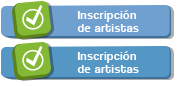
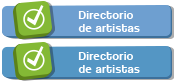
Traducción Sidebar, botones Read more y botones inferiores

diff --git a/wp-content/themes/feria/style.css b/wp-content/themes/feria/style.css
@@ -590,7 +590,7 @@ span.hoy {
 	display:inline-block; 
 	}
 	
-.vermas {
+.vermas, .readmore {
 	float:right;
 	width:72px;}
 
@@ -605,7 +605,17 @@ span.hoy {
 
 	}
 
-.vermas a:hover {
+	
+.readmore a {
+	background-image:url(images/readmore.png);
+	width:71px;
+	height:40px;
+	display:block; 
+	text-indent:-9000%;
+
+	}
+
+.vermas a:hover, .readmore a:hover {
 	background-position:0 -39px;
 	}
 
@@ -1260,13 +1270,19 @@ footer{
 
 /*ESTADO NORMAL*/
 .preguntasFrecuentes a {background-image:url(images/preguntasFrecuentes.png); width:178px; height:40px; }
-.directorioArtistas a {background-image:url(images/InscripcionDeArtistas.png); width:177px; height:40px;}
+.directorioArtistas a {background-image:url(images/InscripcionDeArtistas.png); width:176px; height:40px; }
+
+.preguntasFrecuentesEn a {background-image:url(images/faqs.png); width:178px; height:40px;}
+.directorioArtistasEn a {background-image:url(images/artisticdirectory.png); width:176px; height:40px;}
 
 
 /*ESTADO ROLLOVER*/
 
-.preguntasFrecuentes a:hover {background-position:0px -40px;}
-.directorioArtistas a:hover { background-position:0px -41px;}
+.preguntasFrecuentes a:hover, .preguntasFrecuentesEn a:hover{background-position:0px -40px;}
+.directorioArtistas a:hover {background-position:0px -41px;}
+.directorioArtistasEn a:hover {background-position:0px -41.5px;}
+
+
 
 footer li {
 	float:left;

diff --git a/wp-content/themes/feria/sidebar.php b/wp-content/themes/feria/sidebar.php
@@ -7,7 +7,11 @@
 							<div class="videoFeria">
                             <div class="tit">
                                  <span class="icono"></span>
-                                   <span>Video de la feria</span>         
+                                 <?php if(qtrans_getLanguage() == 'es'): ?>
+                                 <span>Video de la feria</span>         
+                                 <?php else: ?>
+                                 <span>Festival's video</span>  
+                                  <?php endif; ?>      
                             </div><!-- cierra .tit -->  
                             
                             <iframe width="300" height="169" src="//www.youtube.com/embed/bQ2KKHzR2DA" frameborder="0" allowfullscreen></iframe>
@@ -31,13 +35,27 @@
                          </div><!-- cierra .hoyFeria -->
                          
                          <div class="infoTurismo">
+                          <?php if(qtrans_getLanguage() == 'es'): ?>
                          <h3>Info turística</h3>
+                          <?php else: ?>
+                          <h3>For tourists</h3>
+                          <?php endif; ?>
+                          
+<?php if(qtrans_getLanguage() == 'es'): ?>   
                          <ul>
-                           <li><span class="icono1"></span><a href="<?php echo home_url(); ?>/category/infoturistica/">¿Cómo llegar a Medellín?</a></li>
-                       	   <li><span class="icono2"></span><a href="http://medellin.travel/que-hacer-en-medellin/reuniones/directorio-turistico/hospedaje" target="_blank">¿Dónde quedarme en Medellín?</a></li>
-                       	   <li><span class="icono3"></span><a href="http://medellin.travel/que-hacer-en-medellin/reuniones/directorio-turistico/restaurantes" target="_blank">¿Dónde comer en Medellín?</a></li>
-                         </ul>
-                         </div>
+<li><span class="icono1"></span><a href="<?php echo home_url(); ?>/category/infoturistica/">¿Cómo llegar a Medellín?</a></li>
+<li><span class="icono2"></span><a href="http://medellin.travel/que-hacer-en-medellin/reuniones/directorio-turistico/hospedaje" target="_blank">¿Dónde quedarme en Medellín?</a></li>
+<li><span class="icono3"></span><a href="http://medellin.travel/que-hacer-en-medellin/reuniones/directorio-turistico/restaurantes" target="_blank">¿Dónde comer en Medellín?</a></li>
+</ul>
+
+<?php else: ?>
+<ul>
+<li><span class="icono2"></span><a href="http://medellin.travel/que-hacer-en-medellin/reuniones/directorio-turistico/hospedaje" target="_blank">Where to stay in Medellín?</a></li>
+<li><span class="icono1"></span><a href="<?php echo home_url(); ?>/en/category/infoturistica/">How do I get Medellín?</a></li>
+<li><span class="icono3"></span><a href="http://medellin.travel/que-hacer-en-medellin/reuniones/directorio-turistico/restaurantes" target="_blank">Where to eat in Medellín?</a></li>
+</ul>
+<?php endif; ?>
+</div>
                       <?php }?>	
                      
 						<?php dynamic_sidebar( 'sidebar1' ); ?>

diff --git a/wp-content/themes/feria/category-2.php b/wp-content/themes/feria/category-2.php
@@ -33,7 +33,11 @@
                             <?php the_post_thumbnail( 'first-historia' ); ?>
                             <h2><?php the_title(); ?></h2>
                             <?php the_excerpt(); ?> 
+                              <?php if(qtrans_getLanguage() == 'es'): ?>
                             <div class="vermas"><a href="<?php the_permalink(); ?>">Ver más</a></div>
+                             <?php else: ?>
+                             <div class="readmore"><a href="<?php the_permalink(); ?>">Read More</a></div>
+                              <?php endif; ?>   
                            
                         </section> <!-- end article section -->
                     </article>
@@ -49,7 +53,11 @@
                             <?php the_post_thumbnail( 'historia' ); ?>
                             <span><?php the_excerpt(); ?></span>
                            <!-- <span><?php /*?><?php excerpt('175'); ?><?php */?></span>-->
+                            <?php if(qtrans_getLanguage() == 'es'): ?>
                             <div class="vermas"><a href="<?php the_permalink(); ?>">Ver más</a></div>
+                             <?php else: ?>
+                             <div class="readmore"><a href="<?php the_permalink(); ?>">Read More</a></div>
+                              <?php endif; ?>   
                             </div>
  
 						</section> <!-- end article section -->

diff --git a/wp-content/themes/feria/index.php b/wp-content/themes/feria/index.php
@@ -53,10 +53,17 @@ if ($blog_hero){
         <div class="span8">
 
           <div id="novedades">  
-            <div class="tit">
+           <?php if(qtrans_getLanguage() == 'es'): ?>
+           <div class="tit">
               <span class="icono"></span>
               <span>Novedades</span>         
             </div><!-- cierra .tit --> 
+            <?php else: ?>
+            <div class="tit">
+              <span class="icono"></span>
+              <span>News</span>         
+            </div><!-- cierra .tit --> 
+           <?php endif; ?> 
 
             <div class="noticiasHome"> 
               <!-- FEEDS -->
@@ -103,9 +110,15 @@ if ($blog_hero){
                       </a>
                     </span>
                   </div>
+                  <?php if(qtrans_getLanguage() == 'es'): ?>
                   <div class="vermas">
                     <a target="_BLANK" href="<?php echo $item->get_permalink(); ?>" title="<?php echo $item->get_date('j F Y @ G:i'); ?>">Ver más</a>
                   </div>
+                  <?php else: ?>
+                   <div class="readmore">
+                    <a target="_BLANK" href="<?php echo $item->get_permalink(); ?>" title="<?php echo $item->get_date('j F Y @ G:i'); ?>">Read more</a>
+                  </div>
+                  <?php endif; ?>    
                 </div>              
               </div>
               <?php endforeach; ?>  

diff --git a/wp-content/themes/feria/footer.php b/wp-content/themes/feria/footer.php
@@ -1,9 +1,16 @@
  <div class="clearfix row-fluid">
             <div class="span12 Decoration">
+                        <?php if(qtrans_getLanguage() == 'es'): ?>
                        <ul class="menuInferior hidden-phone"> 
                            <li class="preguntasFrecuentes"><a href="<?php echo home_url(); ?>/preguntas-frecuentes/" title="Preguntas Frecuentes">Preguntas Frecuentes</a></li>
                            <li class="directorioArtistas"><a href="http://www.feriadelasfloresmedellin.gov.co/directorio/" title="Directorio de artistas" target="_blank">Directorio Artistas</a></li>           
                         </ul>
+                         <?php else: ?>
+                          <ul class="menuInferior hidden-phone"> 
+                           <li class="preguntasFrecuentesEn"><a href="<?php echo home_url(); ?>/en/preguntas-frecuentes/" title="FAQs">FAQs</a></li>
+                           <li class="directorioArtistasEn"><a href="http://www.feriadelasfloresmedellin.gov.co/directorio/" title="Artistic Directory" target="_blank">Artistic Directory</a></li>           
+                        </ul>
+                        <?php endif; ?>    
                               
                 
             </div> 
